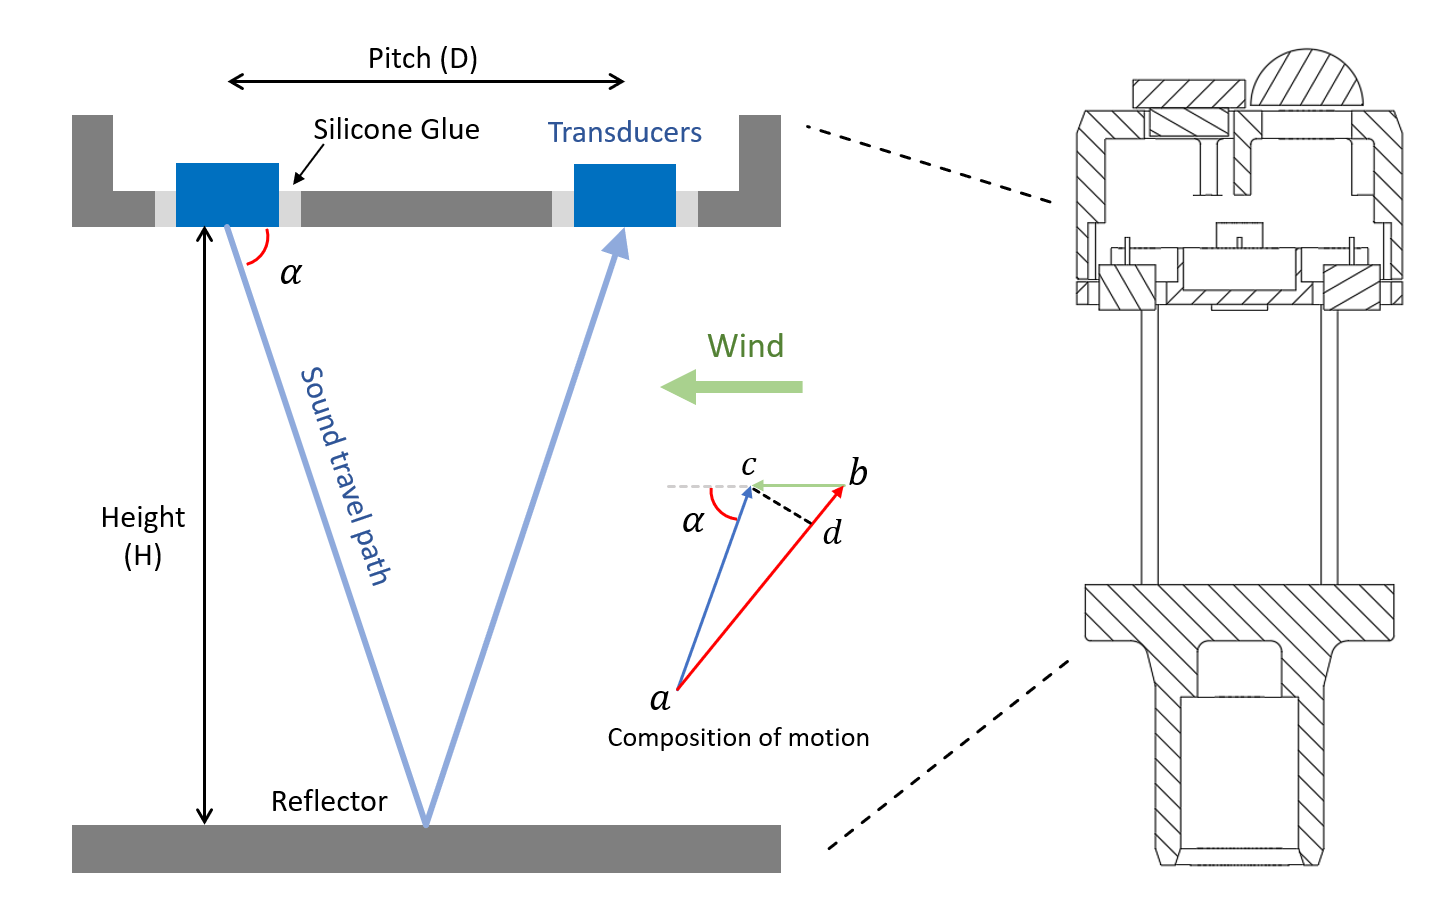
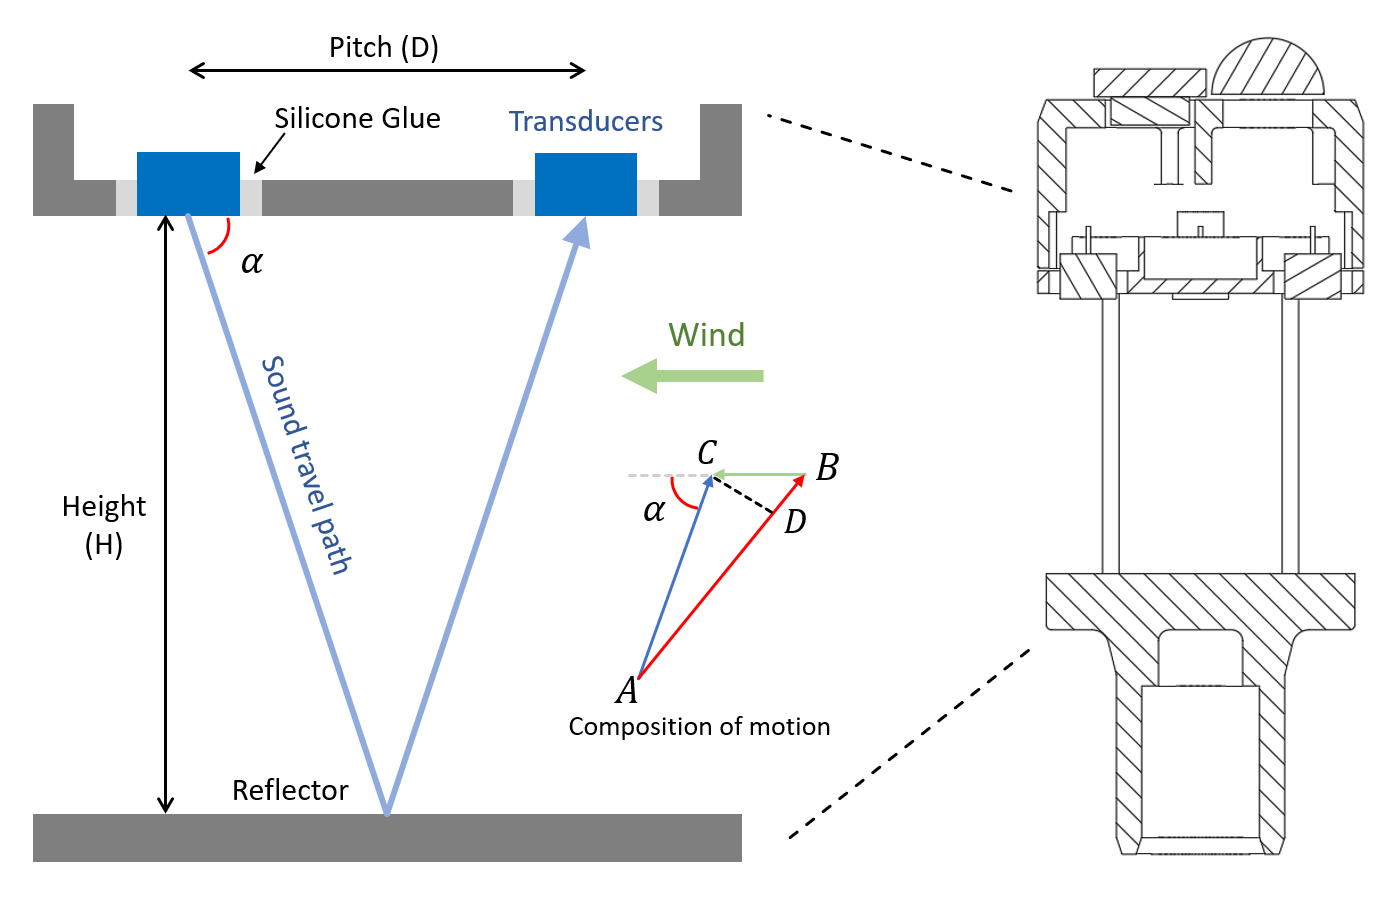
doc

diff --git a/doc/anemometer.md b/doc/anemometer.md
@@ -26,19 +26,24 @@ The advantage of ultrasonic anemometer compared to other types:
 
 ![](figures/ultrasonic_anemometer_principle.png)
 
-The principle is very simple, the sound wave propagate in a medium (air) is affected by the movement of the medium. 
-Using the known propagating path and the time of propagation, we can calculate the speed of medium. 
+The principle is very simple, the sound wave that propagating in a medium (air) is affected by the movement of the medium. 
+By using the known propagating path and the time of propagation, we can calculate the speed of medium. 
 
-In the above graph, we can see the travel of wind *bc* added to the sound propagation *ab* result in the travel path *ac*.
+In the above graph, we can see the travel of wind *BC* added to the sound propagation *AB* result in the travel path *AC*.
 
 [Lau](https://www.dl1glh.de/ultrasonic-anemometer.html#advancement) 
 has posted all related equations (with different notation). 
 
-
+In C language:
 ~~~
 alpha = arctan(2*H/D);
 v = H/sin(alpha)*cos(alpha)*(1/t1 - 1/t2);// wind speed
 c = H/sin(alpha)*(1/t1 + 1/t2);           // sound speed
+~~~
+
+To measure the wind direction, use `arctan` on 2 perpendicular pairs.  
+~~~
+beta = arctan(NS/EW);  // north->south, east->west
 ~~~
 
 ## Practical issues, solution and compromise
@@ -76,7 +81,7 @@ Everythings lay down flat will be a big plus to mechanical design and assembly.
 
 About frequency selection:
 > Ideally, the pulses should as short as possible.
-> We normally send 3~4 pulses.
+> We normally send `3~4` pulses.
 >
 > `f=40k, λ=8.4mm` pulse width `33mm` 
 > 
